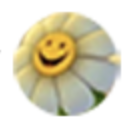
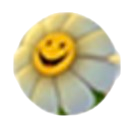
first commit

diff --git a/lib/modules/my_home.dart b/lib/modules/my_home.dart
@@ -38,7 +38,7 @@ class MyHomePage extends StatelessWidget {
           Row(
             children: [
               _buildAuthorInfo(),
-              _buildLogo(ImageConstant.imgHeaderRight),
+              _buildLogo('assets/images/hi.png'),
             ],
           ),
         ],

diff --git a/lib/share/widgets/custom_button.dart b/lib/share/widgets/custom_button.dart
@@ -2,7 +2,7 @@ import 'package:ex_test/share/widgets/base_button.dart';
 import 'package:flutter/material.dart';
 
 class CustomElevatedButton extends BaseButton {
-  CustomElevatedButton({
+  const CustomElevatedButton({
     super.key,
     this.decoration,
     this.leftIcon,

diff --git a/lib/share/utils/size_config.dart b/lib/share/utils/size_config.dart
@@ -1,3 +1,4 @@
+// ignore_for_file: constant_identifier_names
 
 import 'package:flutter/material.dart';
 
